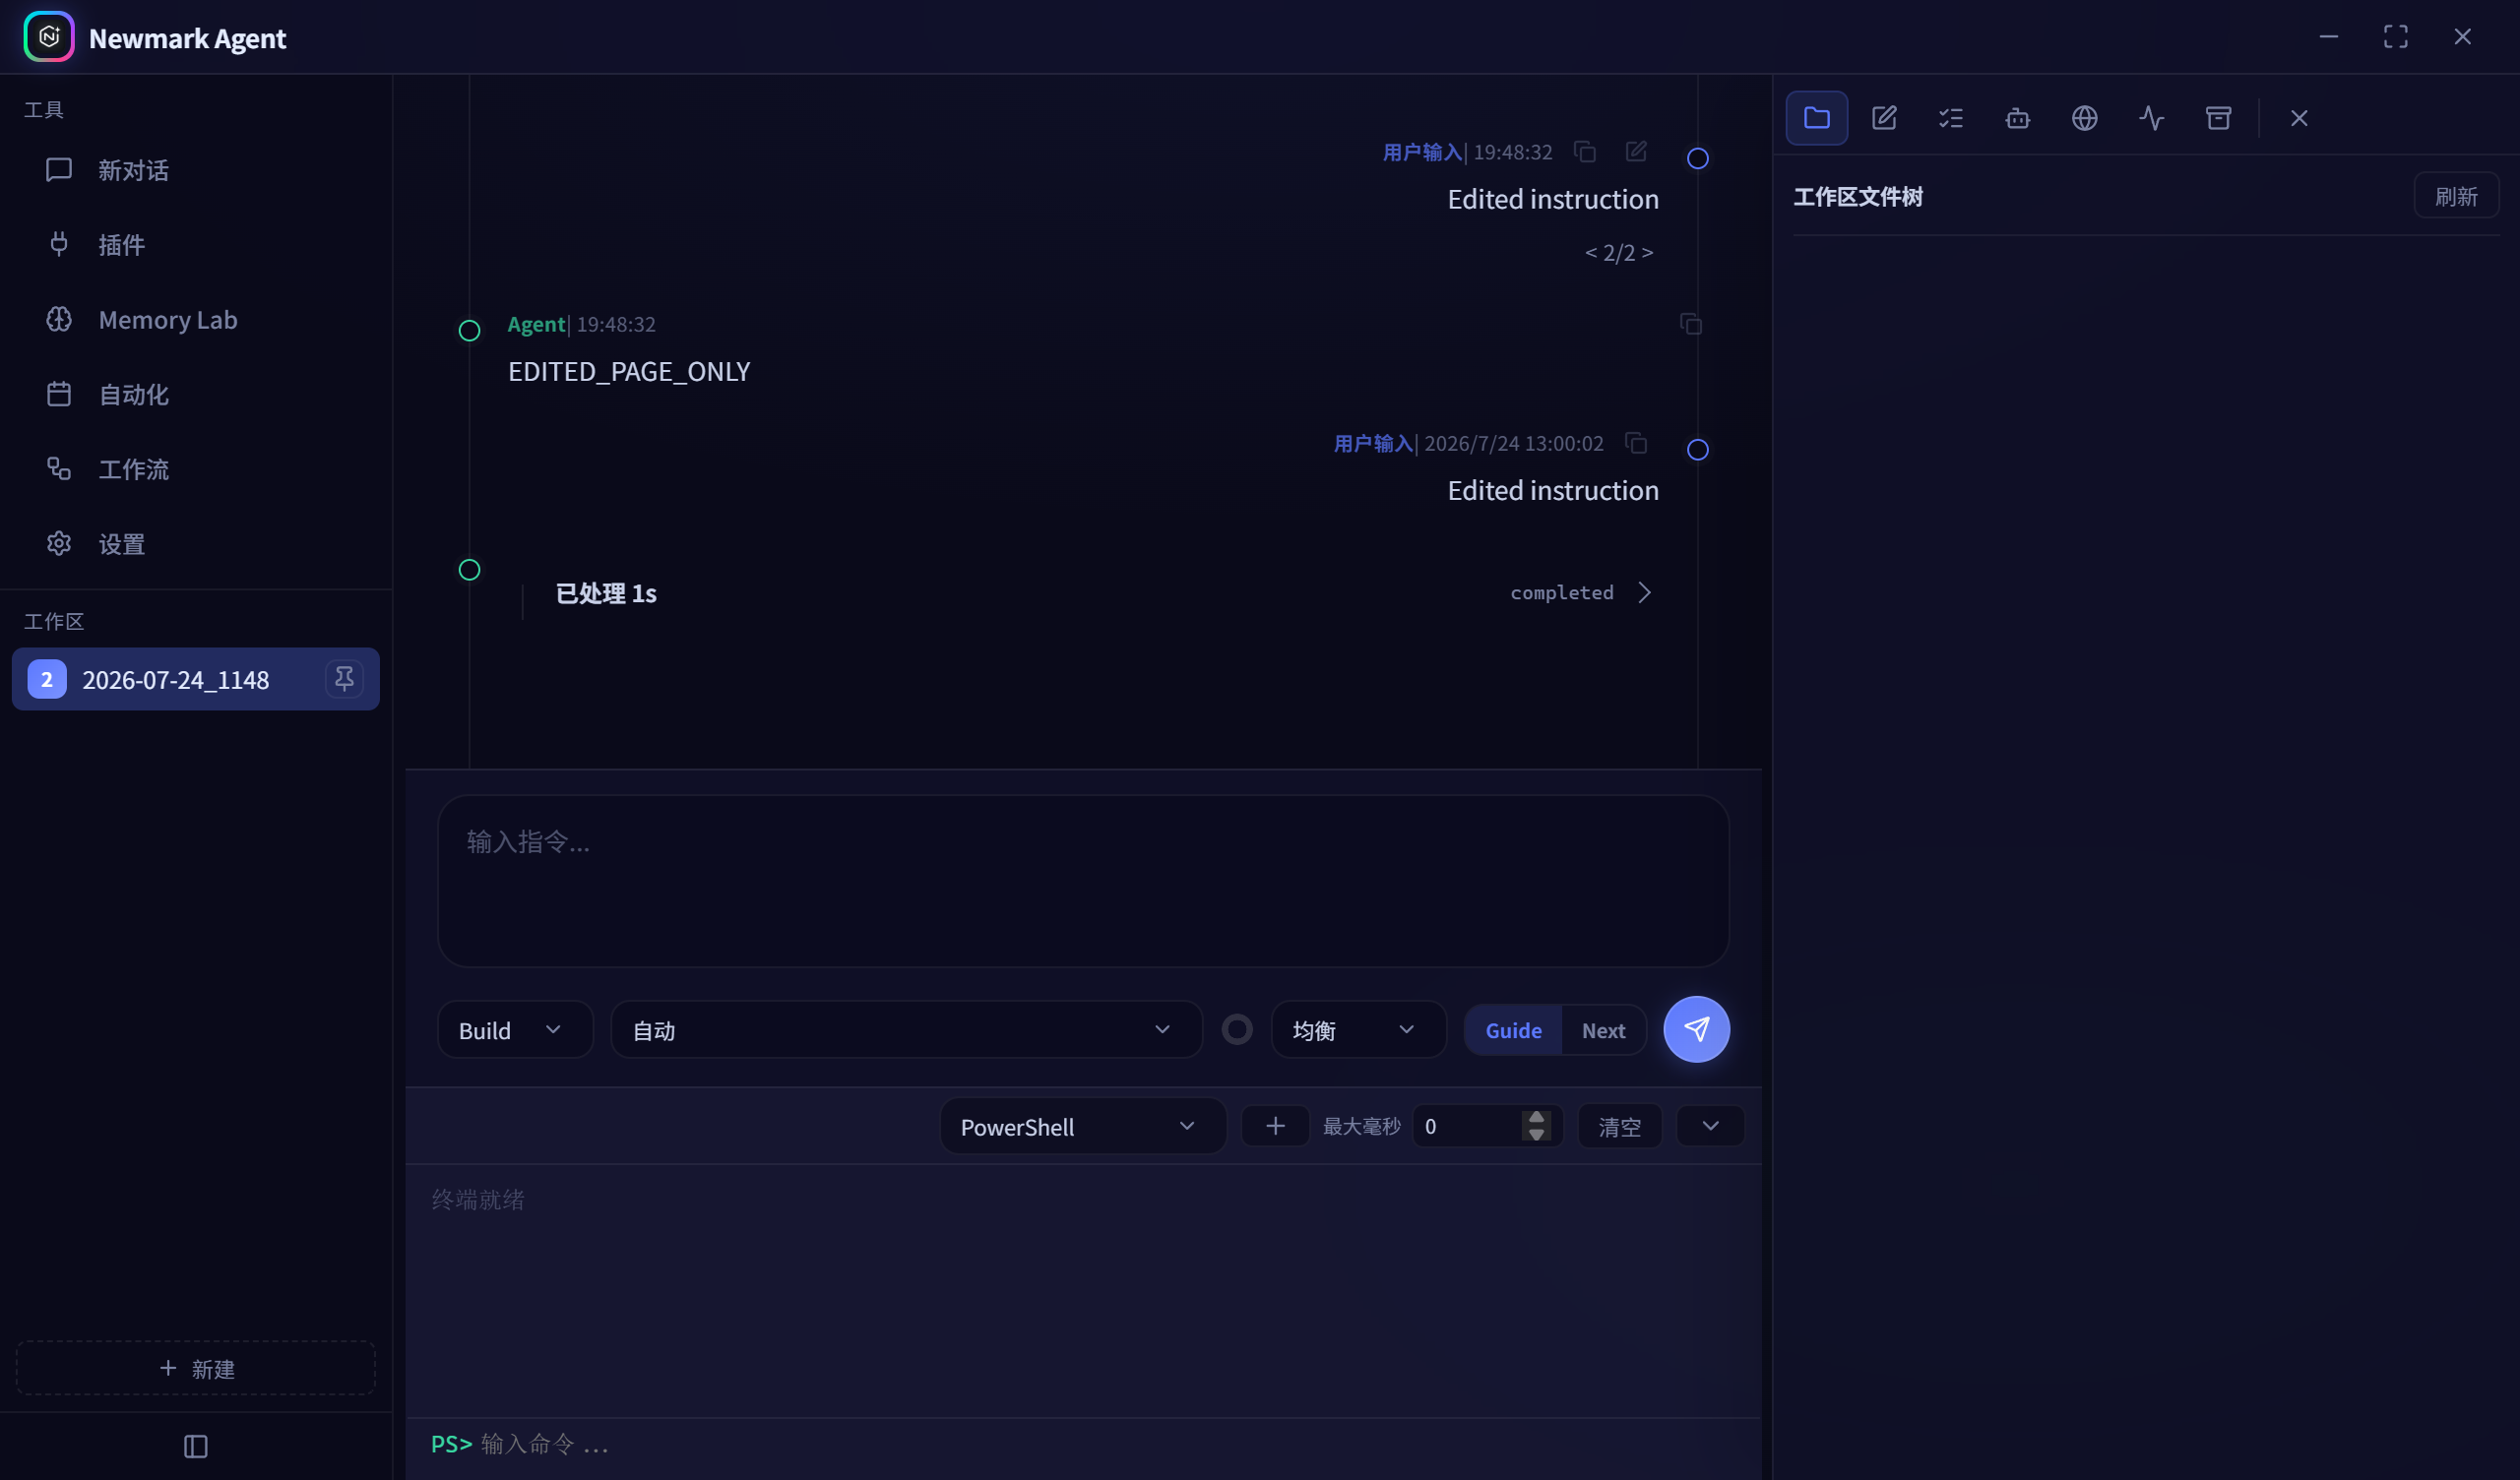
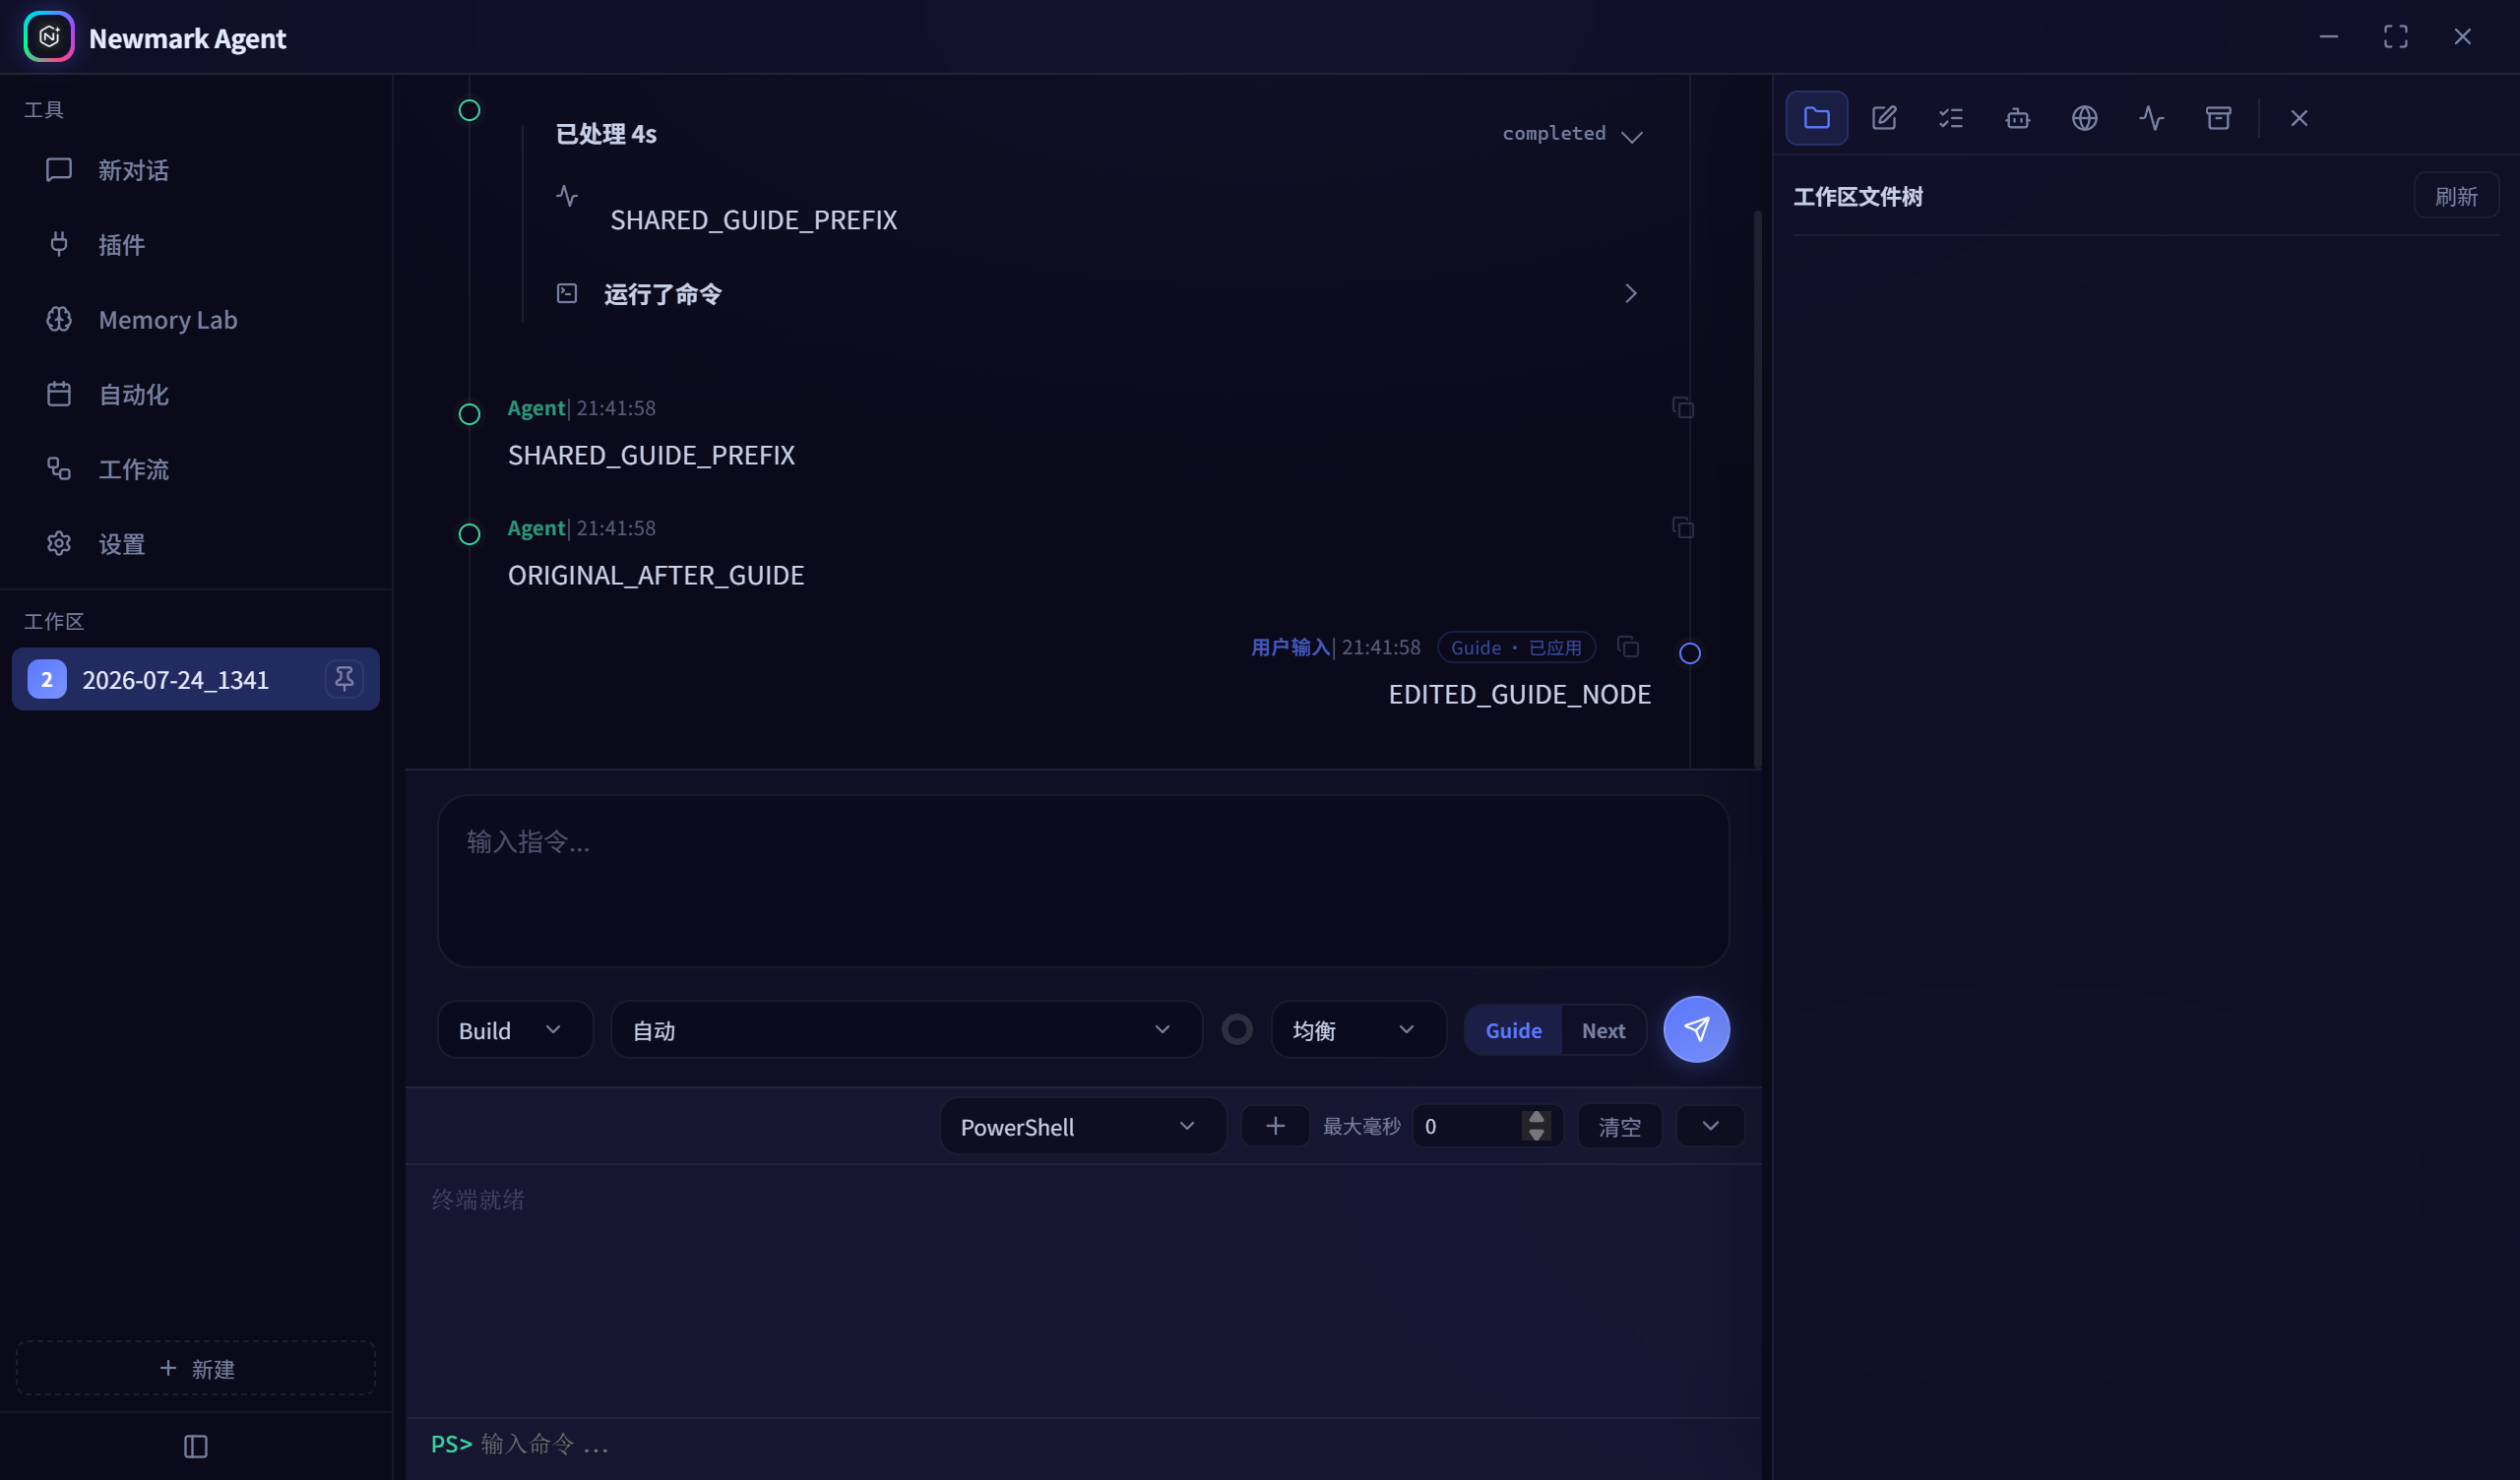
fix: isolate guide branches at the edit node

diff --git a/DESKTOP/src/ui/index.html b/DESKTOP/src/ui/index.html
@@ -7055,6 +7055,7 @@ async function stopTargetConversationForMessageEdit(target) {
 window.submitUserMessageEdit = async function(message, messageIndex, editedText, target) {
   var text = String(editedText || '').trim();
   if (!text || !api.branchConversation) return;
+  var editingGuide = !!String(message && message.getAttribute && message.getAttribute('data-client-message-id') || '');
   var conversationId = String(target.conversationId || activeConversationId() || 'default');
   try {
     if (!await stopTargetConversationForMessageEdit(target)) return;
@@ -7084,7 +7085,11 @@ window.submitUserMessageEdit = async function(message, messageIndex, editedText,
     els.prompt.dispatchEvent(new Event('input', { bubbles: true }));
     els.prompt.focus();
     els.prompt.setSelectionRange(els.prompt.value.length, els.prompt.value.length);
-    await window.sendMessage(state.inputMode || 'guide');
+    var copiedGuideRun = editingGuide && Array.isArray(result.workRuns) ? result.workRuns[result.workRuns.length - 1] : null;
+    await window.sendMessage(state.inputMode || 'guide', undefined, {
+      optimisticMessageIndex: Number(messageIndex),
+      resumeGuideRunId: copiedGuideRun && copiedGuideRun.runId || ''
+    });
   } catch (error) {
     var errorText = error && error.message ? error.message : String(error || 'Unable to edit message.');
     showUiNotice(
@@ -7646,6 +7651,7 @@ function applyGuideMessageMeta(element, input) {
   var status = normalizeGuideUiStatus(input.guideStatus || input.status);
   element.setAttribute('data-client-message-id', clientMessageId);
   element.setAttribute('data-guide-status', status);
+  if (input.runId) element.setAttribute('data-run-id', String(input.runId));
   element.classList.toggle('guide-rejected', status === 'rejected');
   var meta = element.querySelector('.meta');
   if (!meta) return element;
@@ -8086,6 +8092,12 @@ function workToolCommandLabel(item) {
   }
   if (normalizedName === 'skill_download') {
     return (currentLang() === 'zh' ? '安装 Skill · ' : 'Installed Skill · ') + String(args.name || args.source || '').trim();
+  }
+  if (normalizedName === 'web_fetch') {
+    return 'web_fetch · ' + String(args.url || args.uri || '').trim();
+  }
+  if (normalizedName === 'web_search') {
+    return 'web_search · ' + String(args.url || args.query || args.q || '').trim();
   }
   if (normalizedName === 'mcp' || /^mcp[:._-]/.test(normalizedName) || /[:._-]mcp[:._-]/.test(normalizedName)) {
     var mcpServer = String(args.server || args.server_name || args.mcp_server || '').trim();
@@ -8862,6 +8874,13 @@ function renderChatMessages(messages) {
   persistedRuns.forEach(function(run) { renderOwnedWorkRun(run, true); });
   renderPendingGuideMessages(renderTarget, persistedGuideIds);
   if (pendingWorkReview) addWorkReview(pendingWorkReview);
+  renderConversationBranchPagers();
+  renderAutoRouteRatingControls();
+}
+
+function renderConversationBranchPagers() {
+  if (!els['chat-area']) return;
+  Array.prototype.forEach.call(els['chat-area'].querySelectorAll('.conversation-branch-pager'), function(pager) { pager.remove(); });
   var branchGroups = state.conversationBranchGroups || [];
   if (!branchGroups.length && (state.conversationBranches || []).length > 1) {
     branchGroups = [{ id: state.activeConversationBranchGroupId || '', activeBranchId: state.activeConversationBranchId, branches: state.conversationBranches }];
@@ -8891,7 +8910,6 @@ function renderChatMessages(messages) {
       anchor.appendChild(pager);
     }
   }
-  renderAutoRouteRatingControls();
 }
 
 function activeConversationId() {
@@ -10269,6 +10287,11 @@ window.sendMessage = async function(modeOverride, queuedText, opts) {
   var usesPromptAttachments = !queuedRequest && typeof queuedText !== 'string' && !opts.fromQueue;
   var text = usesPromptAttachments ? composePromptTextForSend(rawText) : rawText;
   var requestMessage = queuedRequest || (usesPromptAttachments ? composePromptRequestForSend(rawText) : rawText);
+  if (opts.resumeGuideRunId) {
+    requestMessage = typeof requestMessage === 'object' ? Object.assign({}, requestMessage) : { text: String(requestMessage || '') };
+    requestMessage.runId = String(opts.resumeGuideRunId);
+    requestMessage.clientMessageId = (window.crypto && window.crypto.randomUUID) ? window.crypto.randomUUID() : ('guide-edit-' + Date.now() + '-' + Math.random().toString(16).slice(2));
+  }
   var optimisticAttachments = queuedRequest
     ? normalizeConversationImageAttachments((queuedRequest.images || []).map(function(item) { return Object.assign({}, item, { origin: 'user', mimeType: item.type || '' }); }))
     : (usesPromptAttachments ? promptAttachmentsForConversation() : []);
@@ -10416,7 +10439,29 @@ window.sendMessage = async function(modeOverride, queuedText, opts) {
   if (api.setModel && state.model) await api.setModel(state.model).catch(function(){});
   if (api.setInputMode) await api.setInputMode(effectiveInputMode).catch(function(){});
   if (isActiveConversationTarget(lockedTarget)) {
-    addMsg('user', displayText, opts.fromQueue ? 'next-build' : state.mode, state.model, undefined, { attachments: optimisticAttachments });
+    if (opts.resumeGuideRunId && requestMessage.clientMessageId) {
+      state.guideMessageIndexByClientId[requestMessage.clientMessageId] = Number(opts.optimisticMessageIndex);
+      applyAgentWorkEventToRun({
+        id: 'edited-guide-' + requestMessage.clientMessageId,
+        type: 'guide_applied',
+        content: displayText,
+        workspaceId: lockedTarget.workspaceId,
+        conversationId: lockedTarget.conversationId,
+        runId: String(opts.resumeGuideRunId),
+        clientMessageId: requestMessage.clientMessageId,
+        guide: {
+          clientMessageId: requestMessage.clientMessageId,
+          target: lockedTarget,
+          runId: String(opts.resumeGuideRunId),
+          status: 'applied',
+          content: displayText,
+          createdAt: new Date().toISOString()
+        }
+      });
+    } else {
+      addMsg('user', displayText, opts.fromQueue ? 'next-build' : state.mode, state.model, opts.optimisticMessageIndex, { attachments: optimisticAttachments });
+    }
+    renderConversationBranchPagers();
     applyAutoRouteRatingState(null);
     renderAutoRouteRatingControls();
   }

diff --git a/DESKTOP/src/tests/verify.ts b/DESKTOP/src/tests/verify.ts
@@ -484,7 +484,8 @@ async function main() {
   assert(uiHtml.includes("syncWorkRunsSnapshot(Array.isArray(result.workRuns) ? result.workRuns : [], target)") && uiHtml.includes("div.setAttribute('data-message-index'") && uiHtml.includes(".chat-msg.user[data-message-index=\"") && !uiHtml.includes("querySelector('.chat-msg.user:last-of-type')"), 'ui html: branch switching replaces the cached Build list and anchors inline page navigation at the edited user node instead of the conversation tail');
   assert(preloadSource.includes('inspectConversationBranch:') && preloadSource.includes('activateConversationBranch:') && mainSource.includes("ipcMain.handle('agent:inspectConversationBranch'") && mainSource.includes("ipcMain.handle('agent:activateConversationBranch'") && uiHtml.includes('branchApi.inspectConversationBranch(currentConversationTarget(), branches[next].id, group ? group.id') && uiHtml.includes('async function activateViewedConversationBranchForSend(target)') && uiHtml.includes('!await activateViewedConversationBranchForSend(lockedTarget)'), 'branch paging: arrow navigation is read-only, while sending explicitly activates the viewed branch');
   assert(uiHtml.includes('var visibleRuntimeBranch = active && isViewingRuntimeConversationBranch(target);') && uiHtml.includes('if (visibleRuntimeBranch) renderAgentWorkEvent(event);') && uiHtml.includes('isActiveConversationTarget(lockedTarget) && isViewingRuntimeConversationBranch(lockedTarget)'), 'branch paging: background runtime events and completed send results cannot render into an inspected sibling branch');
-  assert(uiHtml.includes('async function stopTargetConversationForMessageEdit(target)') && uiHtml.includes("api.stopConversation({ target: target, runId: runId, force: false })") && uiHtml.includes("api.stopConversation({ target: target, runId: runId, force: true })") && uiHtml.includes('if (!await stopTargetConversationForMessageEdit(target)) return;') && uiHtml.includes("delete state.activeSendCallsByTarget[runtimeKey]") && uiHtml.includes("await window.sendMessage(state.inputMode || 'guide')"), 'ui html: editing stops only the selected conversation runtime, enters the new page, and starts the edited continuation immediately');
+  assert(uiHtml.includes('async function stopTargetConversationForMessageEdit(target)') && uiHtml.includes("api.stopConversation({ target: target, runId: runId, force: false })") && uiHtml.includes("api.stopConversation({ target: target, runId: runId, force: true })") && uiHtml.includes('if (!await stopTargetConversationForMessageEdit(target)) return;') && uiHtml.includes("delete state.activeSendCallsByTarget[runtimeKey]") && uiHtml.includes('optimisticMessageIndex: Number(messageIndex)') && uiHtml.includes('renderConversationBranchPagers();'), 'ui html: editing stops only the selected conversation runtime, enters the new page, and immediately paginates the edited first message before its Build completes');
+  assert(uiHtml.includes("normalizedName === 'web_fetch'") && uiHtml.includes("return 'web_fetch · '") && uiHtml.includes("normalizedName === 'web_search'") && uiHtml.includes("return 'web_search · '"), 'ui html: web_fetch and web_search activity labels expose their concrete URL or query target');
   assert(uiHtml.includes('guideMessageIndexByClientId: {}') && uiHtml.includes("messageActionsHtml('user', content, indexed ? messageIndex : -1)") && uiHtml.includes('function hydrateWorkRunGuideMessages(root, run)') && agentSourceForEditor.includes("status: 'interrupted' as const") && agentSourceForEditor.includes('run.events.slice(0, eventCut)') && agentSourceForEditor.includes('run.guides.slice(0, guideCut)') && agentSourceForEditor.includes('const branchPageReplacement = !!incoming.branchReset || !!incoming.tree || !!incoming.branches?.length;') && agentSourceForEditor.includes('preferred.workRuns = branchPageReplacement'), 'ui/core: every Guide has one-click copy, persisted Guides are editable, and every branch page replaces rather than merges its transcript and Build tree');
   assert(uiHtml.includes('.conversation-work-file-inline > summary { display: grid; grid-template-columns: 17px minmax(0,max-content) auto 10px;') && uiHtml.includes('.conversation-work-file-inline .conversation-work-file-name { font: inherit; }'), 'ui html: edited-file rows share the terminal tool icon/text columns without a flexible blank spacer or mismatched font');
   assert(preloadSource.includes("rewindConversation: (target: string | Record<string, unknown>, messageIndex: number) => ipcRenderer.invoke('agent:rewindConversation'") && mainSource.includes("ipcMain.handle('agent:rewindConversation'") && mainSource.includes('mutateTargetConversation(target') && mainSource.includes('ensureWslConversationPool()!.rewind(target, messageIndex)') && mainSource.includes('ensureElectronUtilityPool().rewind(target, messageIndex)'), 'main/preload: conversation rewind is target-bound, mutation-guarded, and executes inside the selected WSL or Utility runtime');
@@ -3509,8 +3510,18 @@ async function main() {
   assert(guideBranched.chatMessages.length === 2 && guideBranched.workRuns.length === 1, 'Guide branching: the new page keeps only conversation and Build content before the edited Guide');
   const copiedGuideRun = guideBranched.workRuns[0];
   assert(copiedGuideRun.status === 'interrupted'
+    && copiedGuideRun.primaryPrompt === 'build start'
+    && copiedGuideRun.events.some(event => event.id === 'before-guide')
     && !copiedGuideRun.events.some(event => ['target-guide', 'after-guide'].includes(event.id))
-    && !copiedGuideRun.guides.some(guide => guide.clientMessageId === 'guide-edit-target'), 'Guide branching: the copied Build is truncated immediately before the edited Guide and ready for a new continuation');
+    && !copiedGuideRun.guides.some(guide => guide.clientMessageId === 'guide-edit-target'), 'Guide branching: the copied page preserves the complete owning Build prefix and truncates only the edited Guide and later content');
+  const originalGuidePage = guideBranched.branches.find(branch => branch.id !== guideBranched.activeBranchId)!;
+  const inspectedOriginalGuide = conversationOrderAgent.inspectConversationBranch('guide-branch-source', originalGuidePage.id, guideBranched.branchGroupId);
+  assert(inspectedOriginalGuide.chatMessages.some(message => message.content === 'original guide')
+    && inspectedOriginalGuide.chatMessages.some(message => message.content === 'after guide')
+    && inspectedOriginalGuide.workRuns[0]?.events.some(event => event.id === 'after-guide')
+    && !guideBranched.chatMessages.some(message => ['original guide', 'after guide'].includes(message.content))
+    && !guideBranched.workRuns[0]?.events.some(event => event.id === 'after-guide'),
+  'Guide branching: the original Guide and every later message/tool event remain only on the original page and cannot leak into the edited page');
 
   conversationOrderAgent.setConversation('paged-guide-source');
   conversationOrderAgent.chatMessages = [

diff --git a/DESKTOP/src/core/agent.ts b/DESKTOP/src/core/agent.ts
@@ -1326,7 +1326,7 @@ export class Agent {
 
   resumeConversationWorkRun(runId: string): boolean {
     const run = this.workRuns.find(item => item.runId === String(runId || ''));
-    if (!run || run.status !== 'completed') return false;
+    if (!run || (run.status !== 'completed' && run.status !== 'interrupted' && run.status !== 'force_interrupted')) return false;
     run.status = 'running';
     delete run.endedAt;
     run.expanded = true;
@@ -4265,6 +4265,18 @@ export class Agent {
         : text;
       if (clientMessageId) {
         this.persistGuideMessage(clientMessageId, displayText, inputRunId, historyContent, attachments);
+        if (inputRunId) {
+          this.recordGuideReceipt({
+            clientMessageId,
+            target: this.currentConversationTarget(),
+            runId: inputRunId,
+            status: 'applied',
+            content: displayText,
+            createdAt: this.nowIso(),
+            updatedAt: this.nowIso(),
+            appliedAt: this.nowIso(),
+          });
+        }
       } else {
         this.chatMessages.push({
           role: 'user',

diff --git a/DESKTOP/src/core/conversationKernel.ts b/DESKTOP/src/core/conversationKernel.ts
@@ -567,7 +567,8 @@ export class ConversationKernel {
 
     runtime.generation = (this.generations.get(runtime.runtimeKey) || runtime.generation || 0) + 1;
     this.generations.set(runtime.runtimeKey, runtime.generation);
-    runtime.runId = randomUUID();
+    const requestedRunId = typeof message === 'string' ? '' : String(message.runId || '').trim().slice(0, 200);
+    runtime.runId = requestedRunId || randomUUID();
     runtime.stopRequestedRunId = '';
     runtime.forceStopArmedRunId = '';
     runtime.stopCheckpointed = false;
@@ -576,10 +577,12 @@ export class ConversationKernel {
     // this only inside run() records non-default conversations under whatever
     // conversation the fresh runner happened to load first.
     runtime.runner.setConversation(runtime.id);
-    runtime.runner.beginConversationWorkRun(runtime.runId, {
-      workspaceId: runtime.target.workspaceId,
-      conversationId: runtime.target.conversationId,
-    }, undefined, true, runtime.runtimeKey);
+    if (!requestedRunId || !runtime.runner.resumeConversationWorkRun(requestedRunId)) {
+      runtime.runner.beginConversationWorkRun(runtime.runId, {
+        workspaceId: runtime.target.workspaceId,
+        conversationId: runtime.target.conversationId,
+      }, undefined, true, runtime.runtimeKey);
+    }
     const runId = runtime.runId;
     let activePromise!: Promise<ConversationKernelRunResult>;
     activePromise = (async (): Promise<ConversationKernelRunResult> => {

diff --git a/DESKTOP/src/tests/guideUiReconcileVerify.ts b/DESKTOP/src/tests/guideUiReconcileVerify.ts
@@ -53,6 +53,7 @@ function createFixture(): {
     'syncGuideMessagesFromWorkRuns',
     'renderPendingGuideMessages',
     'addMsg',
+    'renderConversationBranchPagers',
     'renderChatMessages',
   ];
   const extracted = names.map(name => functionSource(source, name)).join('\n\n');

diff --git a/archive/20260724-nested-start-guide-branch-pagination.md b/archive/20260724-nested-start-guide-branch-pagination.md
@@ -14,11 +14,14 @@ A release-blocking follow-up found that a persisted branch tree could also rende
 - Page inspection remains read-only and does not stop or activate a runtime branch. Sending or starting a Build from an inspected page activates that branch according to the existing branch-runtime policy.
 - The `<` and `>` text controls support pointer, Enter, and Space activation.
 - Every snapshot rendering entrypoint now hydrates branch groups, active node, runtime node, and group identity before the first message render, including cold application startup.
+- Editing a Guide resumes the copied prefix of its owning Build under the same run identity. The Guide itself is the page node: everything before it is identical across pages, while the original/edited Guide and every later message, tool event, and Build tail are page-local and cannot leak across siblings.
+- The edited first message receives its message index and pager immediately when the new Build starts, rather than only after the Build completes.
+- `web_fetch` and `web_search` activity rows show the concrete URL or query target beside the tool name.
 
 ## Validation
 
 - `npm.cmd run build` passed.
-- Core verification passed with 1289 assertions and 0 failures, including a cold-start hydration ordering lock.
+- Core verification passed with 1291 assertions and 0 failures, including cold-start hydration, immediate first-message pagination, Guide-prefix preservation, and Guide-tail isolation locks.
 - Final Windows packaging completed for MSI, portable ZIP, and `win-unpacked`.
 - Packaged Electron smoke rendered two independent `<2/2>` pagers: `start-group` at message index 0 and `guide-group` at Guide message index 1.
 - Packaged ZIP and MSI smoke suites passed.
@@ -27,16 +30,16 @@ A release-blocking follow-up found that a persisted branch tree could also rende
 
 ## Final Artifacts
 
[7 lines of base64/hex data omitted]
 - Local installation: `C:\Program Files\Newmark Agent`, file/product version `0.1.7.0`. The temporary current-user installation was removed after formal MSI verification.
 - Packaged UI evidence: `archive/20260724-dev-0.1.7-branch-guide-ui-smoke.png`.
 
 ## Cross-platform Release Assets
 
[6 lines of base64/hex data omitted]
 - AppImage, extracted Debian package, and unpacked ZIP each passed real Linux GUI startup plus isolated Bash/sh terminal round-trip smoke tests under Ubuntu 24.04 WSL.

diff --git a/archive/20260724-dev-0.1.7-local-install.md b/archive/20260724-dev-0.1.7-local-install.md
@@ -35,7 +35,7 @@ Windows Installer completed with exit code `0`. The formal installation produced
 ## Validation
 
 - `npm.cmd run typecheck`: passed.
-- `npm.cmd test`: core `1289 passed / 0 failed`; all subsequent Newmark Select, MCP, runtime isolation, Guide, Browser Use, Computer Use, Auto routing, provider validation, and CLI suites passed.
+- `npm.cmd test`: core `1291 passed / 0 failed`; all subsequent Newmark Select, MCP, runtime isolation, Guide, Browser Use, Computer Use, Auto routing, provider validation, and CLI suites passed.
 - `npm.cmd run dist:windows-release`: passed, including packaged CLI smoke.
 - `npm.cmd run release:ui-dev017-branch-smoke`: passed against `release/win-unpacked/Newmark Agent.exe`.
   - Pager text: `<2/2>`.
@@ -56,8 +56,8 @@ Windows Installer completed with exit code `0`. The formal installation produced
 
 ## Final artifacts
 
[6 lines of base64/hex data omitted]
 
 Release publication is recorded separately by the `dev-0.1.7` tag and GitHub prerelease.